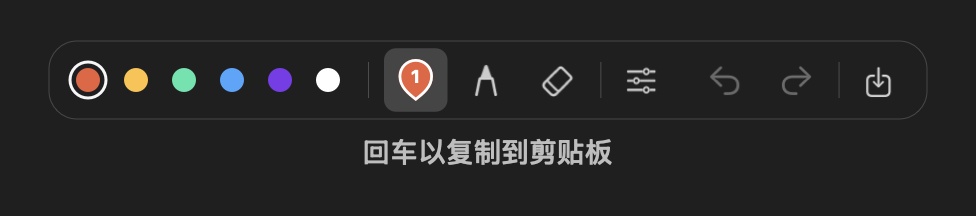
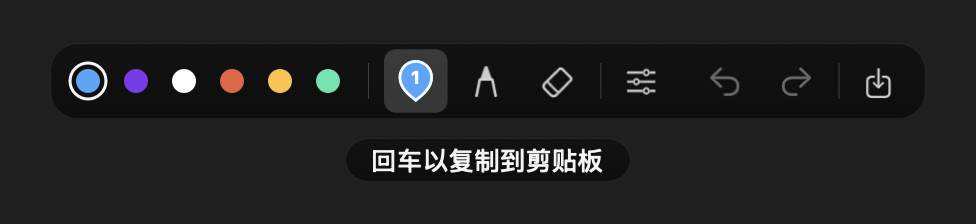
release: v1.1.5 refine capture focus and annotation editing

diff --git a/TESTING.md b/TESTING.md
@@ -67,16 +67,16 @@ Run `swift test`, `./scripts/check-interactions.sh`, `./scripts/check-sessions.s
 - On macOS 26 with an Xcode 26 build, inspect native Liquid Glass over a varied screenshot. Buttons must remain visible and clickable inside the glass, including after resizing/moving the crop; menus must open above it. Older systems/SDKs use NSVisualEffectView in-window blur. Respect Reduce Transparency. Check 19 pt icons and a centered 13 pt bright Return hint on the same glass material as the toolbar, on bright, dark and mixed areas, including compact English layout. The hint must remain readable with Reduce Transparency enabled and must not obscure the controls.
 - Use N, O, B, L, A, P, E to select each tool. Select ellipse/rectangle from the slider menu, then draw both; menu checks and the settings icon must follow the selected tool.
 - Hold Shift while dragging an ellipse, rectangle, line, or arrow; verify circle / square / axis constraints.
-- Choose each of the six color dots at the front of the toolbar and each stroke width from the width menu. New annotations must use the selected color; earlier annotations keep theirs. The current choices must be marked, including after a keyboard tool change. All menus must appear above the capture overlay and close cleanly when canceled; the overlay must retain its original window level afterwards.
+- Verify the left-to-right palette order is blue, purple, white, coral, amber and mint. Choose each of the six color dots at the front of the toolbar and each stroke width from the width menu. New annotations must use the selected color; earlier annotations keep theirs. The current choices must be marked, including after a keyboard tool change. All menus must appear above the capture overlay and close cleanly when canceled; the overlay must retain its original window level afterwards.
 - Use primary toolbar undo, redo and Save PNG; use the slider menu for shapes and width, with no clear/reselect items. Verify their enabled states, then cancel with Esc / blank-canvas right-click or copy with Return / Command–C as indicated below the row. At narrow display widths, controls must remain inside the toolbar and accessible through their labels/tooltips.
 - Click three places. Expect 1, 2, 3 in teardrops with white borders/numbers and pointed tips at those exact locations. Default color is Blue; the palette selection and pin icon must match on each new capture.
 - In pin mode, left-drag a rounded rectangle and right-drag an arrow. No stray numbered pin may appear during or after either drag; a drag out and back to its start must not become a click. A drag delivered only by mouse-up must still work.
-- With the pointer away, verify the crop has only a thin rounded solid outline and no square handles. Hover each edge and corner: only that edge or a short curved corner segment brightens, without shifting the crop. Drag in all four directions and watch the stationary edges: their thin solid outlines must stay in place as the opposite corner moves. The highlight must clear on exit and remain visible while resizing. Resize the crop from all four corners and any edge, including from the shaded side. A slight click/release jitter must leave the crop unchanged. Drawing three points inside the border and dragging a pin against it must edit the annotation instead of resizing. Keep the opposite edge fixed, clamp to the screen, and preserve every annotation and the next pin number. Shrink around a mark and expand again; it must reappear at its original location.
+- With the pointer away, verify the crop has only a thin rounded solid outline and no square handles. Hover each corner: a soft glow in the selected ink follows the rounded border and fades inward, with no outer spill, sharp inner elbow, circular spot or segment-end blobs. Straight edges remain neutral and draggable. Drag in all four directions and watch the stationary edges: their thin solid outlines must stay in place as the opposite corner moves. The corner glow must clear on exit and remain visible while resizing from that corner. The toolbar and Return hint must remain visible and follow the crop throughout edge/corner resizing, Space moves and replacement drags. Resize the crop from all four corners and any edge, including from the shaded side. A slight click/release jitter must leave the crop unchanged. Drawing three points inside the border and dragging a pin against it must edit the annotation instead of resizing. Keep the opposite edge fixed, clamp to the screen, and preserve every annotation and the next pin number. Shrink around a mark and expand again; it must reappear at its original location.
 - Hold Space and drag inside the crop to move it, including near screen boundaries. Annotations stay attached to the source image, not the crop; export dimensions and origin must reflect the new selection.
 - Compare small and large crops, multi-digit pins, and pins near every edge. Pins shrink with the short edge of the crop, their tip remains exact, their bubble fits inside, and pin size does not change with stroke width.
 - After placing a pin, jitter near its tip: no delete badge should flash. Move away and return to its body: the badge appears; move slowly across the edge toward the badge: it stays visible. Move beyond the retention margin: it disappears. The tracking area must not be rebuilt during hover updates.
 - Hover a pin: its smaller minus badge should overlap the upper-right bubble edge without covering the number. Test 8–100 pt crops: the badge must keep the number clear and remain reachable outside the crop, with an invisible click margin. Clicking the pin number must not delete it. Near display boundaries the badge must stay on screen. Move onto the badge and click. The badge must remain reachable and later numbers must close the gap. Undo/redo restores the exact pins and their numbers; the next new pin continues the sequence.
-- Hover a line/arrow to reveal two white endpoint controls; drag either endpoint or drag the shaft to move the entire object. Hover a box/ellipse to reveal size controls. Edits retain identity and consume only one undo transaction per drag. Press Delete after selection to remove it.
+- Hover a line/arrow to reveal two white endpoint controls; drag either endpoint or drag the shaft to move the entire object. Hover a box/ellipse to reveal eight size controls, then move slightly off its outline and through its interior: the controls must remain reachable. Leave the retention area to dismiss hover, and move onto a nearby mark to check it still takes priority over an invisible handle margin. Edits retain identity and consume only one undo transaction per drag. Press Delete after selection to remove it.
 - Confirm rectangles have rounded corners, dash gaps and no fill. Their dash gaps should remain easy to select/edit. All new boxes use the thin 2 pt stroke, even after selecting a thicker line/pen width or using the B key.
 - In pen mode, drag through several intermediate points and release; the exported stroke must follow the path. Erase its middle: only the brushed region disappears, both ends remain, and lower annotations/the opaque screenshot show through. Overlapping eraser paths must not reveal old ink. Check fast sweeps, click erasures, thick strokes, and strokes crossing crop boundaries. Erasing near a crop edge must not affect the outside portion after expanding the crop. Move the remaining stroke: its erased regions move with it. One undo/redo restores/reapplies the entire eraser gesture, including any erased non-pen objects and pin numbering. Empty erasing does not invalidate redo.
 - Hover pins/shapes and export while the badge/handles are visible. UI controls must be absent from the output.

diff --git a/CHANGELOG.md b/CHANGELOG.md
@@ -1,26 +1,17 @@
 # Changelog
 
-## 1.1.5 — Unreleased
+## 1.1.5 — 2026-11-20
 
-- Rotate the toolbar palette to blue, purple, white, coral, amber and mint. Keep the corner glow's inner contours rounded throughout their fade, avoiding a sharp inner elbow.
-- Retain annotation controls across a shape's interior and a forgiving stroke margin. Enlarge handle targets without letting their invisible margins steal nearby annotations; preserve empty interiors for drawing.
-- Show resize feedback only at the four corners, using the selected annotation color (blue by default). Follow the rounded border with a soft narrow glow that fades farther along the two edges than into the crop, without a circular spot or segment-end blobs. Clip it to the rounded selection, keeping the shaded desktop, edge dragging, idle borders, hit targets and exported pixels unchanged.
-- Use clear Liquid Glass with a constant dark scrim and subtle rim reflections for both toolbar rows, avoiding the regular material's adaptive gray brightening while retaining native refraction.
-- Keep the toolbar and Return-to-copy hint visible and following the crop during edge/corner resizing, Space moves and replacement drags. Disable implicit position animation to avoid trailing or a release-only jump.
-- Preserve the permission relaunch helper when Settings' consent quit emits a spurious power-off notification. Continue cancelling it for real logout/shutdown, unknown senders and explicit quit.
-- Register the global shortcut before launch setup and receive it at the Carbon dispatcher, independently of a key window. Retain a capture request received during launch and log ignored requests with their state.
-- Default new captures and annotations to blue, including the toolbar pin icon. Keep the full six-color palette.
-- Replace the open arrowhead with a filled triangular head and a tapered shaft. Share its silhouette across preview, export, selection and object erasing; preserve endpoint editing and undo/redo.
-- Tighten the toolbar-to-hint gap by one physical screen pixel, accounting for the display's backing scale.
-- Keep the exact crop geometry when releasing a selection, edge resize or Space move; round only exported source pixels. Avoid an immediate corner highlight on selection release.
-- Preserve the crop, annotations and toolbar on shaded-area clicks and small pointer jitter. Replace the crop only when a new drag begins; restore it if that drag ends too small.
-- Use brighter Return-to-copy text on the same glass material as the toolbar. Center the hint below the toolbar with the same 10 pt gap used between the toolbar and crop.
-- Center the hint's rendered glyph outlines rather than its font line box. Account for native glass's inset and the crop outline's outer stroke when matching visible gaps; align toolbar placement to the same pixel grid as the crop border.
-- Reduce the hint to 13 pt. Calibrate the gap against the solid glass body in live WindowServer captures, excluding its faint outer highlight.
-- Give the screenshot editor application focus after presenting the frozen desktop. Route Return, keypad Enter and editing shortcuts at the panel level so toolbar responder changes cannot swallow confirmation.
-- Keep all displays covered during selection; shaded regions continue to receive clicks. Switching to another application dismisses the capture instead of leaving a dark overlay over an active underlying window.
-- Consume repeated confirmation keys while exporting and restore the previous application's focus only after held confirmation keys are released. Observe key-up locally so Command-C release cannot be lost through key-equivalent dispatch.
-- Log capture focus, Return receipt and clipboard completion timing without recording input text or image content. Add input-routing, dark-region hit-testing, held/repeated key and focus-loss cancellation regression checks.
+- Give the screenshot editor keyboard focus and route Return, keypad Enter and editing shortcuts at the panel level. Consume repeated confirmation keys during export and restore the previous app only after held keys are released, preventing input from reaching the underlying window.
+- Keep every display covered during capture; shaded clicks remain in the editor. Switching apps cancels capture and prevents late export callbacks from restoring old overlays.
+- Preserve the permission relaunch helper across Settings' consent quit, while respecting real shutdown and explicit quit. Register the global shortcut early at the Carbon dispatcher and retain requests received during launch so the first shortcut works without clicking the desktop.
+- Keep exact crop geometry when releasing selections, resizing or moving. Shaded clicks and small pointer jitter preserve the existing crop; only a new drag replaces it. Keep the toolbar and copy hint visible and following the crop throughout adjustments.
+- Use dark clear Liquid Glass with stable dimming and subtle rim reflections for the toolbar and Return hint. Center the 13 pt hint's rendered glyphs and refine the visible gaps, including fractional and Retina layouts.
+- Default to blue and rotate the toolbar palette to blue, purple, white, coral, amber and mint. Changing ink affects new annotations and the corner glow.
+- Replace open arrows with filled triangular heads and tapered shafts. Share the silhouette across preview, export, selection and erasing, retaining endpoint editing and undo/redo.
+- Show resize feedback only at the four corners. A soft glow follows the rounded border in the selected ink, with rounded inner contours and a longer fade along the edges than into the crop. Keep straight edges draggable, clip glow away from the shaded desktop and exclude controls from exports.
+- Retain annotation controls across a shape's interior and a forgiving stroke margin. Enlarge handle targets without letting their invisible margins steal nearby annotations; keep empty interiors available for drawing.
+- Extend focus, held-key, repeated capture, permission relaunch, editing-hover and rendering regression checks. Update installation instructions, gestures and previews for build 43.
 
 ## 1.1.4 — 2026-11-16
 
